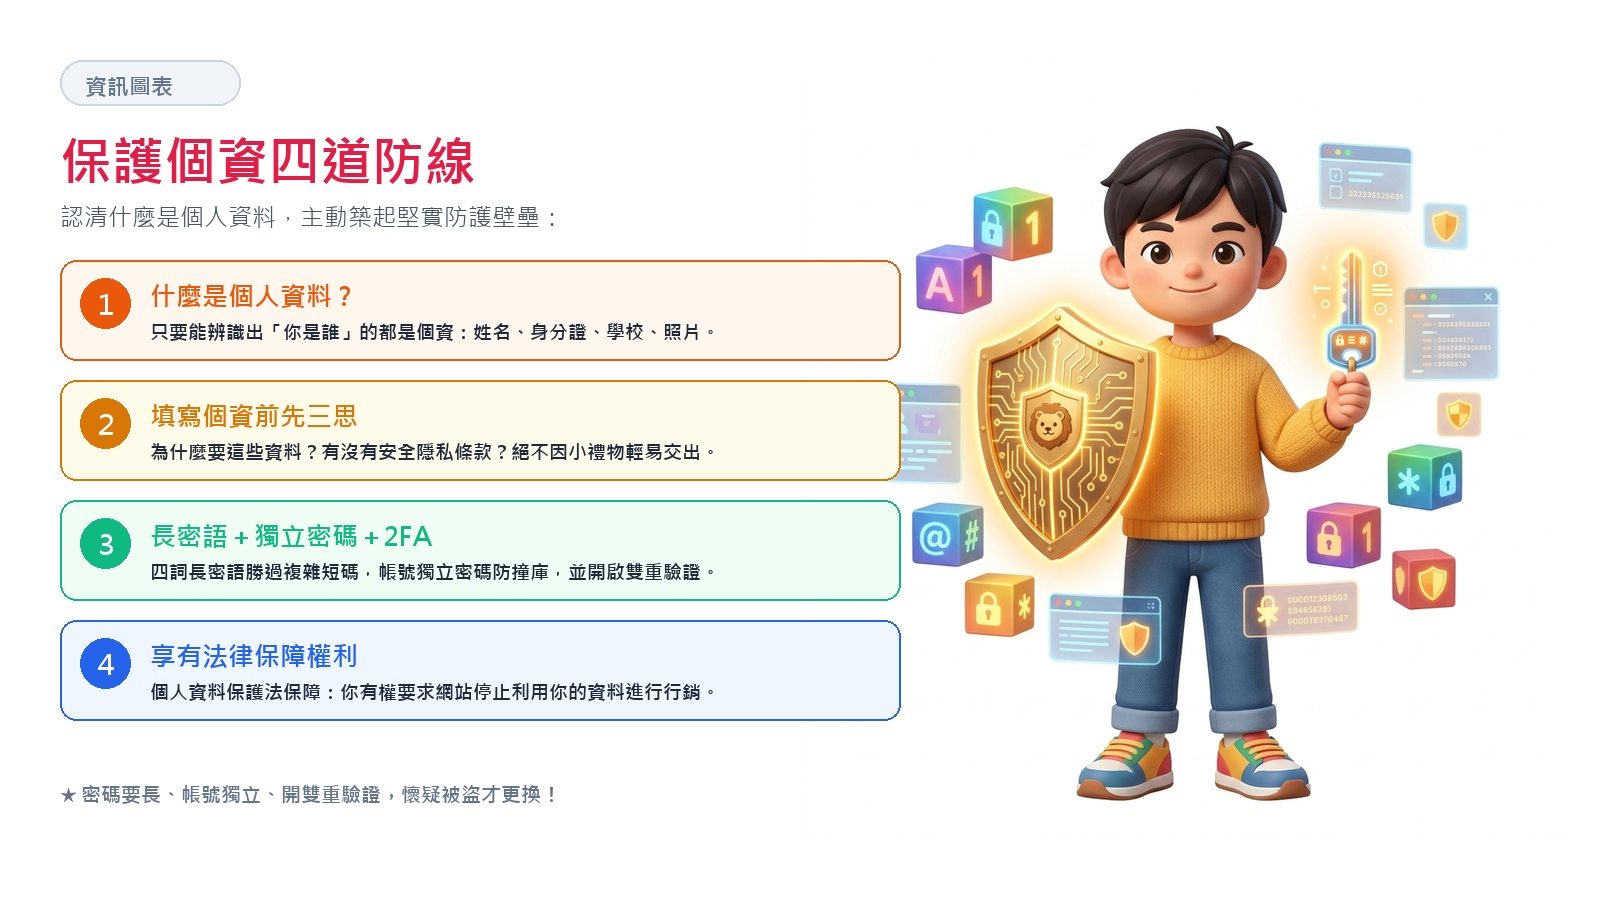
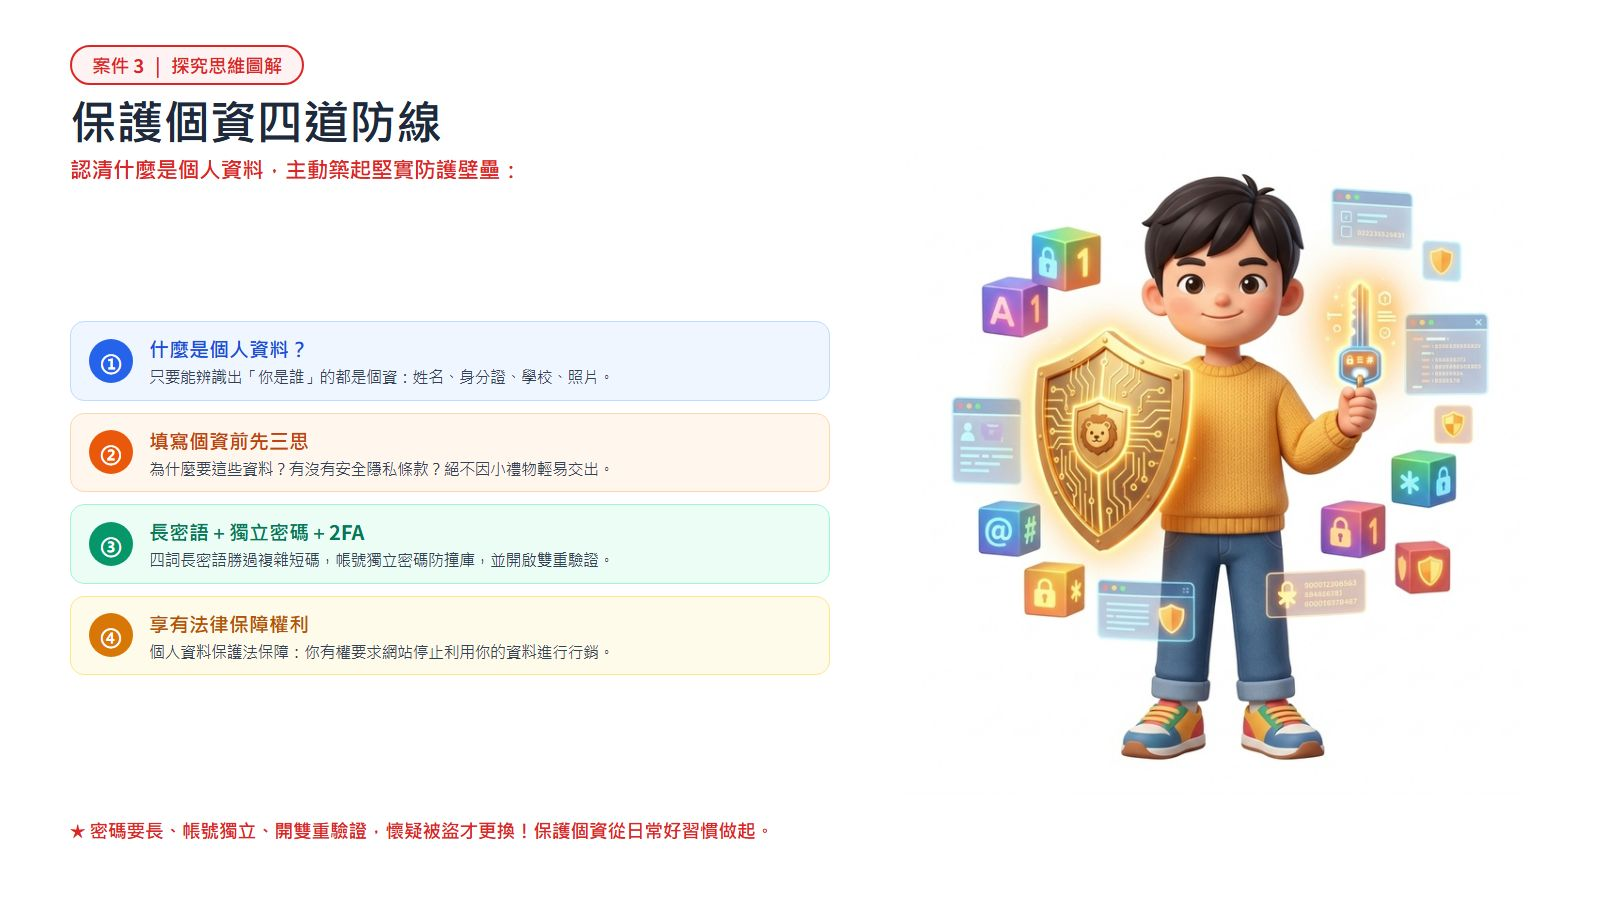
fix(case3): 替換案件三個資保衛戰標準卡片與對齊圖檔，統一紅框標籤

Changed region(s): [[0.0312, 0.1244, 0.9375, 0.9022], [0.0312, 0.0311, 0.3438, 0.2489], [0.0312, 0.8711, 0.4688, 0.9333]]

diff --git a/units/g5-cyber-safety/index.html b/units/g5-cyber-safety/index.html
@@ -448,7 +448,7 @@
         {
           title: '案件 3　個資保衛戰',
           text: '只要能認出「你是誰」的資料都是個資。保護個資七大妙招的前兩招已更新：<b>密碼要長、每個帳號不同，懷疑外洩才換；再加上雙重驗證</b>。',
-          slides: ['assets/v1_passphrase_v2.jpg?v=20261023f'],
+          slides: ['assets/final_case3.jpg?v=20261024_case3_privacy_aligned'],
           interactive: GAMES.password,
           quizzes: [
             {
@@ -469,7 +469,7 @@
               feedback: '多因素驗證（MFA）必須跨越「知識、持有物、生物特徵」不同維度。兩道都是「記憶中的文字密碼」只是雙重密碼，一旦被鍵盤側錄或釣魚就會同時失守。'
             }
           ],
-          infographic: 'assets/i3_privacy_v3.jpg?v=20261023_wider?v=20261023f',
+          infographic: 'assets/i3_privacy_v3.jpg?v=20261024_case3_privacy_aligned',
           teacherTips: ['舊說法「每三個月換密碼」已更新：現在的建議是用長密語、不重複使用，懷疑外洩才換，並開雙重驗證。', '提醒學生密碼破解計時器只輸入範例，不要輸入真的密碼。']
         },
         {

diff --git a/handoff.md b/handoff.md
@@ -57,14 +57,21 @@
     - 3D 科技金庫大門與三把鎖（Confidentiality / Integrity / Availability）向上精確切齊左側第一張卡片頂部，旋轉把手完整入鏡。
     - 資訊圖表版卡片適當加厚展開，底部加入「★ 資安偵探金律」重點收斂框；簡報版「想一想」提示框與金庫底邊完美水平收斂，底邊維持標準 54px 舒適留白。
     - 經 Kristy 檢視預覽確認許可（"OK"）後，正式覆蓋寫入正式目錄並更新 `index.html` 快取碼（`?v=20261024_case2_cia_aligned`）。
+- **依據 Kristy 最新指導完成案件 3 全面升級與完美對齊（2026-10-24 12:45）**：
+  - **案件 3 探究簡報（`final_case3.jpg`）與資訊圖表（`i3_privacy_v3.jpg`）**：
+    - 簡報淘汰舊版圓點條列文字，升級為標準 4 大卡片（四詞長密語、獨立密碼、雙重驗證、驗證碼不透露）＋紅粉色「想一想」互動問答提示框。
+    - 簡報標籤升級為標準紅框紅字「案件 3 ｜ 探究簡報」，資訊圖表升級為標準紅框紅字「案件 3 ｜ 探究思維圖解」。
+    - 充裕呼吸留白：文字卡片與右側 3D 小男孩浮空積木之間保留 **130px** 舒適間距，盾牌金光與邊框完全零貼邊、零重疊。
+    - 小男孩向上切齊第一張卡片頂部，鞋底與底部想一想框水平齊平，底邊維持全站標準 54px 舒適留白。
+    - 經 Kristy 檢視預覽確認許可（"OK"）後，正式覆蓋寫入正式目錄並更新 `index.html` 快取碼（`?v=20261024_case3_privacy_aligned`）。
 - 已全自動完成 `git commit`、`git push origin main` 與 Google 雲端硬碟 `robocopy` 雙重備份！
 
 ## 🚦 目前狀態
-- 案件 1、案件 2、案件 6 的所有投影片與資訊圖表皆已完美定稿、對齊無遮擋並發布至 GitHub Pages！
+- 案件 1、案件 2、案件 3、案件 6 的所有投影片與資訊圖表皆已完美定稿、對齊無遮擋並發布至 GitHub Pages！
 - 教學影片播放清單（含《2020》網路危機等 4 部短片）已上線。
 
 ## ➡ 下一步
-1. 依 Kristy 指示推進下一個案件的圖片檢視與修正（如案件 3、案件 8 小美自拍、案件 9 釣魚等）。
+1. 依 Kristy 指示推進下一個案件的圖片檢視與修正（如案件 4、案件 5、案件 8 小美自拍、案件 9 釣魚等）。
 2. 持續依 Kristy 指導推進其他單元或教材細節。
 
 ## ⚠ 注意事項
@@ -72,6 +79,6 @@
 - 所有插圖角色自然多元（小男孩、小女孩、阿嬤、同儕），全數統一為 16:9 純白底繪本規格。
 
 ## 🕐 最後更新
-- 時間：2026-10-24 12:32
+- 時間：2026-10-24 12:46
 - 更新者：Antigravity @ LAPTOP-IUMJF2MM
 
